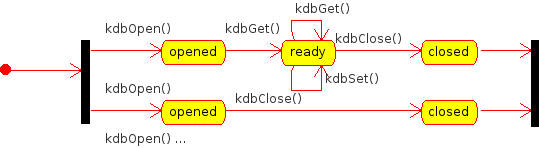
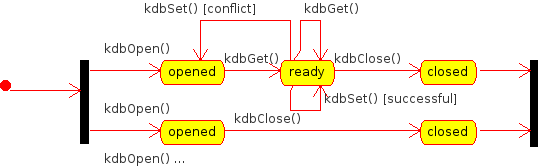
make states even more clear

diff --git a/src/libelektra/kdb.c b/src/libelektra/kdb.c
@@ -26,30 +26,51 @@
  * The kdb*() methods are used to access the storage, to get and set
  * @link keyset KeySets @endlink.
  *
- * They use some backend implementation to know the details about how
- * to access the storage.
+ * Parameters common for all these functions are:
  *
+ * - *handle*, as returned by kdbOpen(), need to be passed to every call
+ * - *parentKey* is used for every call to add warnings and set an
+ *   error. For kdbGet() / kdbSet() it is used to give an hint which keys
+ *   should be retrieved/stored.
+ *
+ * @note The parentKey is an obligation for you, but only an hint for KDB.
+ * KDB does not remember anything
+ * about the configuration. You need to pass the same configuration
+ * back to kdbSet(), otherwise parts of the configuration get
+ * lost. Only keys below the parentKey are subject for change, the rest
+ * must be left untouched.
+ *
+ * KDB uses different backend implementations that know the details
+ * about how to access the storage.
  * One backend consists of multiple plugins.
  * See @link plugin writing a new plugin @endlink for information
  * about how to write a plugin.
+ * Backends are state-less regarding the configuration (because of that
+ * you must pass back the whole configuration for every backend), but
+ * have a state for:
+ *
+ * - a two phase-commit
+ * - a conflict detection (error 30) and
+ * - optimizations that avoid redoing already done operations.
  *
  * @image html state.png "State"
  * @image latex state.png "State"
  *
- * As we see in the figure, any number of kdbOpen() can be called in any
+ * As we see in the figure, kdbOpen() can be called arbitrarily often in any
  * number of threads.
  *
  * For every handle you got from kdbOpen(), for every parentKey with a
  * different name, *only* the shown state transitions
  * are valid. From a freshly opened KDB, only kdbGet() and kdbClose()
- * are allowed, because otherwise conflicts would not be detected.
+ * are allowed, because otherwise conflicts (error 30) would not be detected.
  *
  * Once kdbGet() was called (for a specific handle+parentKey),
  * any number of kdbGet() and kdbSet() can be
- * used with this handle respective parentKey.
+ * used with this handle respective parentKey, unless kdbSet() had
+ * a conflict (error 30) with another application.
  * Every affair with KDB needs to be finished with kdbClose().
  *
- * The parentKey of kdbOpen() and kdbClose() do not matter.
+ * The name of the parentKey in kdbOpen() and kdbClose() do not matter.
  *
  * In the usual case we just have one parentKey and one handle. In
  * these cases we just have to remember to use kdbGet() before kdbSet().
@@ -425,8 +446,6 @@ static int elektraGetDoUpdate(Split *split, Key *parentKey)
  *
  * @include get.c
  *
- * @par Details:
- *
  * If you pass NULL on any parameter kdbGet() will fail
  * immediately without doing anything.
  *
@@ -435,22 +454,22 @@ static int elektraGetDoUpdate(Split *split, Key *parentKey)
  * The parameter @p returned will not be changed.
  *
  * @par Updates:
- *
- * In the first run of kdbGet all keys are retrieved. On subsequent
+ * In the first run of kdbGet all requested (or more) keys are retrieved. On subsequent
  * calls only the keys are retrieved where something was changed
  * inside the key database. The other keys stay unchanged in the
- * keyset, even when they were manipulated.
+ * keyset, even if they were manipulated.
  *
  * It is your responsibility to save the original keyset if you
  * need it afterwards.
  *
- * If you must get the same keyset again, e.g. in another
- * thread you need to open a second handle to the key database
+ * If you want to get the same keyset again, you need to open a
+ * second handle to the key database
  * using kdbOpen().
  *
  * @param handle contains internal information of @link kdbOpen() opened @endlink key database
- * @param parentKey parent key holds the information which keys should
- * 	be get (it is possible that more are retrieved) - an invalid name gets all keys
+ * @param parentKey is used to add warnings and set an error
+ *         information. Additionally, its name is an hint which keys
+ *         should be retrieved (it is possible that more are retrieved).
  * @param ks the (pre-initialized) KeySet returned with all keys found
  * 	will not be changed on error or if no update is required
  * @see ksLookup(), ksLookupByName() for powerful
@@ -715,31 +734,33 @@ static void elektraSetRollback(Split *split, Key *parentKey)
 
 /** @brief Set keys in an atomic and universal way.
  *
- * With @p parentKey you can only store a part of the given keyset.
- * When other keys also belong to a backend, they will be used too,
- * even when they are above @p parentKey.
+ * With @p parentKey you can give an hint which part of the given keyset
+ * was of interest for you. Then you promise, you did not modify or
+ * remove any key not below this key.
  *
- * @par 
- *
- * Each key is checked with keyNeedSync() before being actually committed. So
- * only changed keys are updated. If no key of a backend needs to be synced
- * any affairs to backends omitted and 0 is returned.
- *
- * @par Errors:
+ * @par Errors
  * If some error occurs, kdbSet() will stop. In this situation the KeySet
  * internal cursor will be set on the key that generated the error.
+ * None of the keys are actually committed in this situation.
  *
- * None of the keys are actually commited.
- *
- * You should present the error message to the user and let the user decide what
+ * In case of errors you should present the error message to the user and let the user decide what
  * to do. Possible solutions are:
- * - repeat the same kdbSet (for temporary errors)
- * - remove the key and set it again (for validation or type errors)
- * - change the value and try it again (for validation errors)
- * - do a kdbGet and then (for conflicts ...)
+ * - remove the problematic key and use kdbSet() again (for validation or type errors)
+ * - change the value of the problematic key and use kdbSet() again (for validation errors)
+ * - do a kdbGet() (for conflicts, error 30) and then
  *   - set the same keyset again (in favour of what was set by this user)
  *   - drop the old keyset (in favour of what was set elsewhere)
+ *   - merge the original, your own and the other keyset
  * - export the configuration into a file (for unresolvable errors)
+ * - repeat the same kdbSet might be of limited use if the operator does
+ *   not request it, because temporary
+ *   errors are rare and its unlikely that it will be fixed by itself
+ *   (e.g. disc full)
+ *
+ * @par Optimization
+ * Each key is checked with keyNeedSync() before being actually committed. So
+ * only changed keys are updated. If no key of a backend needs to be synced
+ * any affairs to backends are omitted and 0 is returned.
  *
  * @par Example of how this method can be used:
  * @code
@@ -805,8 +826,10 @@ keyDel(parentKey);
  *
  * @param handle contains internal information of @link kdbOpen() opened @endlink key database
  * @param ks a KeySet which should contain changed keys, otherwise nothing is done
- * @param parentKey holds the information below which key keys should be set, either:
- *           - cascading keys will set the path in all namespaces
+ * @param parentKey is used to add warnings and set an error
+ *         information. Additionally, its name is an hint which keys
+ *         should be committed (it is possible that more are changed).
+ *           - cascading names will set the path in all namespaces
  *           - / will return all keys
  *           - meta-names will be rejected (error 104)
  *           - empty/invalid
